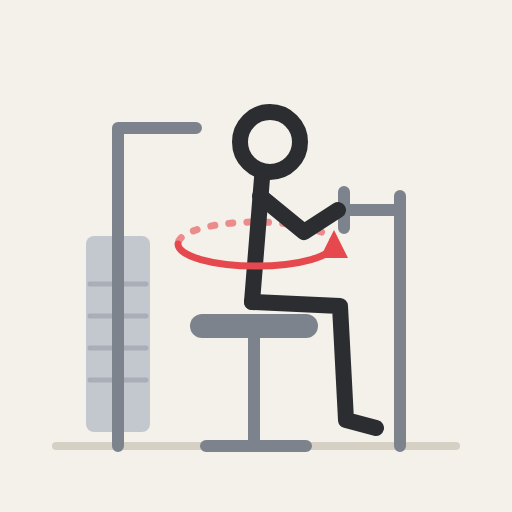
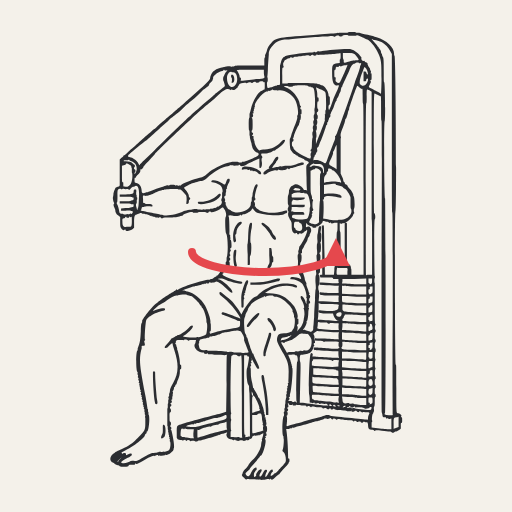
Draw Machine Torso Rotation from Open Exercise Art
Replaces the stick figure with Open Exercise Art's machine chest press
line drawing, the closest seated pose, with a rotation arrow added.
Its CC BY-SA 4.0 licence wants credit, a licence link and the change
noted: Settings → About, the README and the SVG carry them.

Claude-Session: https://claude.ai/code/session_014dFGTNLBzhgBs2n8gTV9ov

Changed region(s): [[0.0938, 0.0625, 0.9062, 0.9375]]

diff --git a/Core/Sources/Core/ExtraExercises.swift b/Core/Sources/Core/ExtraExercises.swift
@@ -1,8 +1,8 @@
 extension CatalogExercise {
     /// Exercises RepDB lacks, written for Muscle Grail in RepDB's form: names in English, German and Spanish, and steps in
-    /// English and German. Their drawing is our own (`Extras/<id>.png`, from `Design/<id>.svg`), never in RepDB's style: its
-    /// license forbids deriving one from its images. Their ids are catalog ids like RepDB's, so a RepDB update that brings
-    /// one of them replaces ours.
+    /// English and German. Their drawing (`Extras/<id>.png`, from `Design/<id>.svg`) is adapted from Open Exercise Art, CC BY-SA
+    /// 4.0, never from RepDB's images: its license forbids deriving one from them. Their ids are catalog ids like RepDB's, so a
+    /// RepDB update that brings one of them replaces ours.
     static let extras = [
         CatalogExercise(
             id: "machine-torso-rotation", name: "Machine Torso Rotation", equipment: "rotary_torso_machine", primaryMuscles: ["obliques"],

diff --git a/App/Credits.swift b/App/Credits.swift
@@ -1,12 +1,15 @@
 import SwiftUI
 
 /// RepDB's license wants its attribution visible in the app: the exercises, their steps and images are RepDB's.
+/// Machine Torso Rotation's drawing is adapted from Open Exercise Art, whose CC BY-SA 4.0 wants credit, a licence link and
+/// a note that it was changed.
 struct Credits: View {
     var body: some View {
         Section("About") {
             AppInfo()
             SyncLog()
             Link(destination: URL(string: "https://repdb.co")!) { Text(verbatim: "Exercise data by RepDB (repdb.co)") }
+            Text("Machine Torso Rotation drawing adapted from [Open Exercise Art](https://github.com/AlexMollard/Open-Exercise-Art) by Alex Mollard, [CC BY-SA 4.0](https://creativecommons.org/licenses/by-sa/4.0/)")
         }
     }
 }

diff --git a/CLAUDE.md b/CLAUDE.md
@@ -87,7 +87,7 @@ Read [PLAN.md](PLAN.md) before changing sync, the data model, or HealthKit. It h
 - The catalog is [RepDB](https://github.com/RepDB/exercise-dataset)'s free dataset: 650 exercises in English, German and Spanish, at the commit `CatalogExercise.repdbCommit` pins. Its license allows in-app use with attribution but forbids republishing the dataset, and this repo is public, so it is never committed: `Core/fetch-catalog.sh` downloads `exercises.json` into `Core/Sources/Core/RepDB/` (ignored by git). The app and watch schemes run it as a build pre-action, CI as a step; run it once before `swift test`. A pre-action that can't download doesn't fail the build: the app then has an empty catalog.
 - Keep "Exercise data by RepDB (repdb.co)" visible, linked to https://repdb.co: `Credits` in Settings on the iPhone and the Mac, and the README. RepDB's images may not be fed to generative models, so never hand them to the plan assistant or Claude.
 - To update the catalog, change `repdbCommit`. Its `id`s are catalog ids that plans and sets refer to, so check that none disappeared.
-- Exercises RepDB lacks are our own, in `CatalogExercise.extras` (`ExtraExercises.swift`), in RepDB's form: names in English, German and Spanish, steps in English and German, and an equipment key with its German in Core's `Localizable.xcstrings`. Their drawings are our own: an SVG in `Design/`, rendered to the 512 px PNG `Core/Sources/Core/Extras/<id>.png`, which `imageURL` finds by id. Never draw one in RepDB's style: its license forbids deriving pictures from its images. One RepDB brings later with the same id replaces ours.
+- Exercises RepDB lacks are our own, in `CatalogExercise.extras` (`ExtraExercises.swift`), in RepDB's form: names in English, German and Spanish, steps in English and German, and an equipment key with its German in Core's `Localizable.xcstrings`. Their drawings are adapted from [Open Exercise Art](https://github.com/AlexMollard/Open-Exercise-Art) (CC BY-SA 4.0): its closest drawing, dark ink on a light square with a red arrow for the movement, as an SVG in `Design/` rendered to the 512 px PNG `Core/Sources/Core/Extras/<id>.png`, which `imageURL` finds by id. CC BY-SA wants the credit, a licence link and the change noted, in the SVG, `Credits` and the README, and the adaptation stays CC BY-SA. Never base one on RepDB's images: its license forbids deriving pictures from them. One RepDB brings later with the same id replaces ours.
 - The user's `CatalogEntry`s sit on top: their own exercises, and their name, description, video link and photo for any exercise. They live in the separate Catalog store of the same iCloud container (`Store.configurations`) with their own log, so the gym store stays small. Photos are stored as JPEGs of at most 1024 px (`Photo.jpeg`).
 - Weights step through what the exercise's equipment really comes in (`Weights`), never by a fixed amount.
 - Weights are stored in kg. An exercise's unit (`CatalogEntry.unit`, kg or lb, because some machines show pounds) only changes how they show and are typed: show one with `WeightUnit.format`, edit one with `WeightStepper`, never with a fixed "kg".

diff --git a/CHANGELOG.md b/CHANGELOG.md
@@ -11,7 +11,7 @@
 - Replace an exercise with another in the same place, from its menu, on the Mac and the iPhone. Sets and reps stay; the weight starts at your last one for the new exercise, else 0 kg.
 - On the Mac, type a plan's sets and reps, or step to them.
 - Build plans on the Mac from a searchable catalog of 650 exercises by RepDB, each with illustrations and step-by-step instructions, or add your own, each with target sets, reps and weight. Settings credits RepDB.
-- Rumpfdrehung am Gerät (Machine Torso Rotation) is in the catalog with its steps in English and German, and a GymBook import finds it by that name. It shows a simple drawing of the movement until you give it a photo of your machine. An exercise of that name you imported before stays your own.
+- Rumpfdrehung am Gerät (Machine Torso Rotation) is in the catalog with its steps in English and German, and a GymBook import finds it by that name. It shows a line drawing of the movement, adapted from Open Exercise Art and credited in Settings, until you give it a photo of your machine. An exercise of that name you imported before stays your own.
 - Make your own exercises, and give any exercise a description, a video link and a photo. Renaming an exercise keeps its history.
 - On the Mac, add exercises to a plan by describing them, typed or dictated, in English or German: "3x10 bench press at 60 kg, then squats". Needs Apple Intelligence.
 - On the Mac, let Claude create and extend plans through MCP: switch it on in Settings, where the commands for Claude Code and Claude Desktop are. In a plan shared with your training partner, what Claude adds is yours alone unless you ask for both, or Settings says always both.

diff --git a/README.md b/README.md
@@ -124,3 +124,5 @@ Core tests: `cd Core && ./fetch-catalog.sh && swift test`. The exercise catalog 
 ## Credits
 
 Exercise data by [RepDB](https://repdb.co) ([exercise-dataset](https://github.com/RepDB/exercise-dataset), free tier, used under its [data license](https://github.com/RepDB/exercise-dataset/blob/main/LICENSE-DATA.md)).
+
+The Machine Torso Rotation drawing (`Design/machine-torso-rotation.svg` and its PNG in `Core/Sources/Core/Extras/`) is adapted from "Machine Chest Press" by [Open Exercise Art](https://github.com/AlexMollard/Open-Exercise-Art) / Alex Mollard, [CC BY-SA 4.0](https://creativecommons.org/licenses/by-sa/4.0/): placed on a square background, ink colour set and a rotation arrow added. The adaptation is licensed CC BY-SA 4.0 too.
